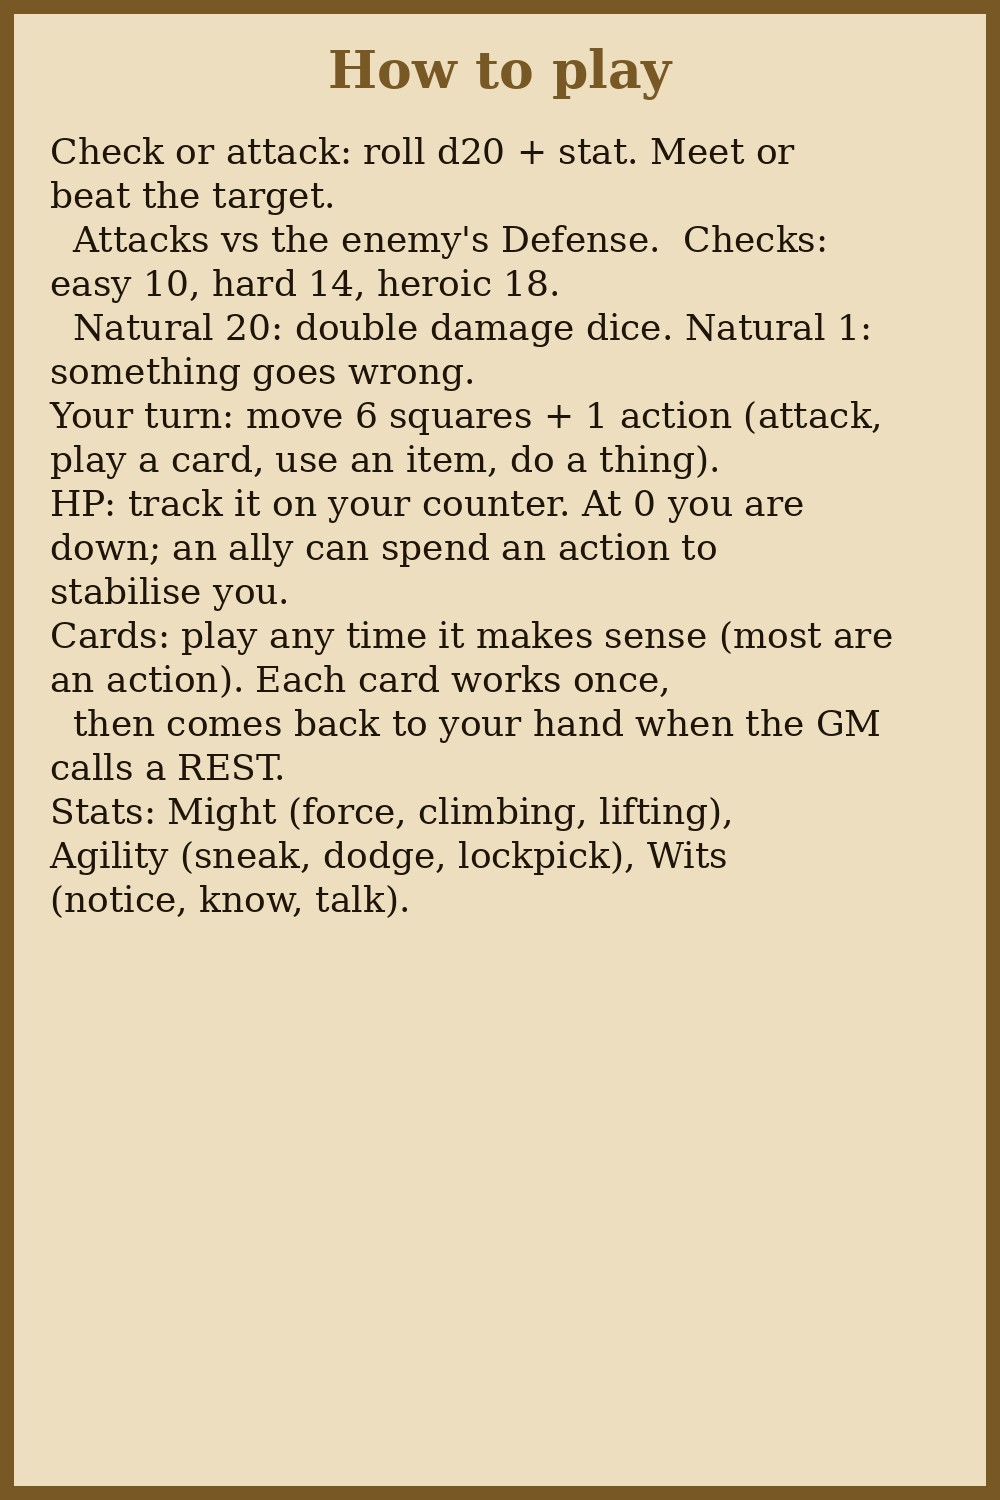
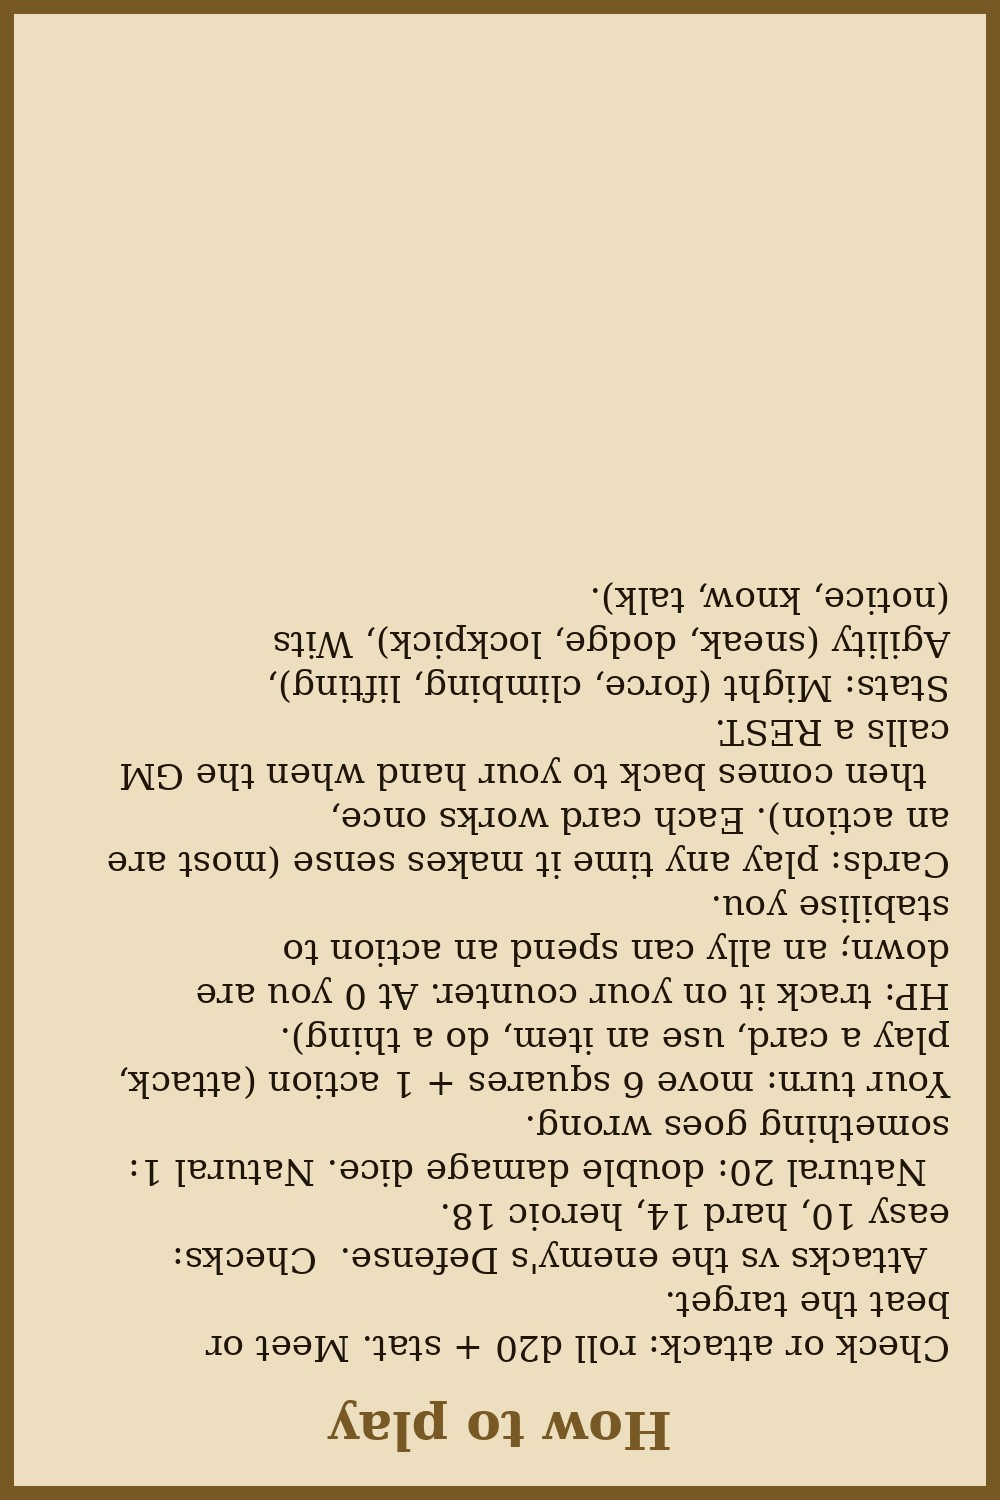
GM table with legs instead of the floating desk, single gold pouch, GM hand zone, screen text and item cards face the GM

diff --git a/build.py b/build.py
@@ -3,7 +3,7 @@ e.g. https://raw.githubusercontent.com/<user>/<repo>/<commit>/  -> writes art/ou
 import hashlib, json, subprocess, sys, textwrap
 from pathlib import Path
 from PIL import Image, ImageChops, ImageDraw, ImageFont
-from content import HEROES, NPCS, SCENES, RULES, BATTLE_MUSIC, ITEMS, POUCHES, SKIES
+from content import HEROES, NPCS, SCENES, RULES, BATTLE_MUSIC, ITEMS, SKIES
 
 ROOT = Path(__file__).parent
 CONTROLLER = "901d00"       # GUID of the hidden object that runs game.lua
@@ -13,7 +13,8 @@ TABLE_PX = (3400, 2000)     # custom rectangle table images are 17:10
 ART_FRAC = 0.64             # share of the table width the scene art covers; the wooden border holds the player kits
 # measured-at-load layout knobs, passed to game.lua (fractions of the table's measured width/depth)
 LAYOUT = {"cols": COLS, "rows": ROWS, "art_w": ART_FRAC, "surface": 1.0,
-          "kit_x": 0.41, "reveal": 7, "sheet_z": 0.30, "row_z": 0.12, "sheet_w": 0.16, "tile_unit": 2.0}
+          "kit_x": 0.41, "reveal": 7, "sheet_z": 0.30, "row_z": 0.12, "sheet_w": 0.16, "tile_unit": 2.0,
+          "gm_hand": 12.5}   # GM hand zone, squares past the table's east edge (beyond the GM table)
 FONT = "/usr/share/fonts/truetype/dejavu/DejaVuSerif{}.ttf"
 RGB = {"Red": (150, 35, 35), "Blue": (35, 70, 150), "Green": (35, 115, 55), "Purple": (100, 45, 135)}
 
@@ -167,12 +168,7 @@ def build_images():
     pw = art.width // 3
     for i, (title, body, fs) in enumerate(screen_panels()):
         art.crop((i * pw, 0, (i + 1) * pw, art.height)).resize((1000, 1500), Image.LANCZOS).save(OUT / f"screen_front_{i}.jpg", quality=88)
-        text_panel(title, body, fs=fs).save(OUT / f"screen_back_{i}.jpg", quality=90)
-    desk = Image.open(RAW / "table_wood.png").convert("RGB")
-    desk.crop((0, 0, desk.width, int(desk.width / 2.04))).resize((2040, 1000)).save(OUT / "gm_desk.jpg", quality=85)
-    console = Image.new("RGB", (1200, 800), (40, 28, 20))
-    ImageDraw.Draw(console).rectangle((0, 0, 1199, 799), outline=GOLD, width=16)
-    console.save(OUT / "gm_console.jpg", quality=90)
+        text_panel(title, body, fs=fs).rotate(180).save(OUT / f"screen_back_{i}.jpg", quality=90)   # tile backs render upside down
     for key in SKIES:
         sky(key).save(OUT / f"sky_{key}.jpg", quality=85)
     wood = Image.open(RAW / "table_wood.png").convert("RGB").resize(TABLE_PX)
@@ -305,18 +301,23 @@ def hero_objects(h, n, base):
 # GM desk: beyond the table's east edge (grid x past the table half-width), GM-only (tag "gm"); the screen
 # stands on the table's east border and everyone sees it. GM sits east looking west: cards ry 270, tiles ry 90.
 EDGE = COLS / ART_FRAC / 2          # table half-width in grid squares
-DESK_X = EDGE + 5.2                 # desk centre; it is 10 squares deep and 20.4 wide
+DESK_X = EDGE + 5.4                 # GM table centre; it is 10.4 squares deep and 20.8 wide
+
+
+TEXTURES = dict(l.split() for l in (ROOT / "props" / "textures.txt").read_text().splitlines()) if (ROOT / "props" / "textures.txt").exists() else {}
 
 
 def gm_objects(base):
     gm = dict(Tags=["gm"])
-    def model(name, **kw):
-        return obj("Custom_Model", tf(), Nickname=name.title(), CustomMesh={
-            "MeshURL": f"{base}props/{name}.obj", "DiffuseURL": f"{base}props/{name}.jpg", "NormalURL": "",
-            "ColliderURL": "", "Convex": True, "MaterialIndex": 2 if name == "coin" else 1, "TypeIndex": 0,
-            "CastShadows": True}, **kw)
-    out = [tile(f"{base}art/out/gm_desk.jpg", tf(ry=90.0), GUID=guid("gm", "desk"), Nickname="GM desk", Locked=True, **gm,
-                grid={"x": DESK_X, "z": 0, "k": "tile", "s": [20.4, 1, 20.4], "lift": -0.1})]
+    coin = obj("Custom_Model", tf(), Nickname="Gold coin", Hands=True, CustomMesh={
+        "MeshURL": f"{base}props/coin.obj", "DiffuseURL": f"{base}props/coin.jpg", "NormalURL": "", "ColliderURL": "",
+        "Convex": True, "MaterialIndex": 2, "TypeIndex": 0, "CastShadows": True})
+    # the GM's table: a real table everyone sees (only what lies on it is GM-only)
+    out = [obj("Custom_Model", tf(), GUID=guid("gm", "table"), Nickname="GM table", Locked=True, Tags=["gmtable"],
+               CustomMesh={"MeshURL": f"{base}props/gm_table.obj", "DiffuseURL": f"{base}props/{TEXTURES['gm_table']}",
+                           "NormalURL": "", "ColliderURL": "", "Convex": True, "MaterialIndex": 1, "TypeIndex": 0,
+                           "CastShadows": True},
+               grid={"x": DESK_X, "z": 0, "k": "model", "lift": 0})]
     # screen: three standing panels, art outside (players), quick reference inside (GM)
     for i, (z, x, ry) in enumerate(((-2.8, 0.75, 60.0), (0.0, 0.0, 90.0), (2.8, 0.75, 120.0))):
         t = tf(ry=ry)
@@ -325,42 +326,20 @@ def gm_objects(base):
                  Locked=True, Tags=["gmscreen"], grid={"x": EDGE - 0.8 + x, "z": z, "k": "tile", "s": [4.5, 1, 4.5], "ly": 2.3})
         p["CustomImage"]["ImageSecondaryURL"] = f"{base}art/out/screen_back_{i}.jpg"
         out.append(p)
-    out.append(tile(f"{base}art/out/gm_console.jpg", tf(ry=90.0), GUID=guid("gm", "console"), Nickname="GM controls",
-                    Locked=True, XmlUI=console_xml(), **gm, grid={"x": DESK_X + 3.4, "z": 0, "k": "tile", "s": [4, 1, 4]}))
     out.append(obj("Custom_PDF", tf(ry=90.0), GUID=guid("gm", "book"), Nickname="GM guide", **gm,
                    CustomPDF={"PDFUrl": f"{base}art/out/gm_guide.pdf", "PDFPassword": "", "PDFPage": 0, "PDFPageOffset": 0},
-                   grid={"x": DESK_X + 3.4, "z": -6, "k": "tile", "s": [3, 1, 3]}))
+                   grid={"x": DESK_X + 2.6, "z": -5.5, "k": "tile", "s": [3, 1, 3]}))
     deck = {"FaceURL": f"{base}art/out/items.jpg", "BackURL": f"{base}art/out/card_back.jpg", "NumWidth": 4,
             "NumHeight": 2, "BackIsHidden": True, "UniqueBack": False, "Type": 0}
-    spots = [(x, z) for x in (DESK_X - 3.4, DESK_X - 1.1) for z in (-8, -4, 0, 4, 8)]
+    spots = [(x, z) for x in (DESK_X - 3.2, DESK_X - 0.9) for z in (-8, -4, 0, 4, 8)]
     cards = [(i, name, text) for i, (name, text, _, k) in enumerate(ITEMS) for _ in range(k)]
     for n, ((i, name, text), (x, z)) in enumerate(zip(cards, spots)):
-        out.append(obj("Card", tf(ry=270.0), CardID=900 + i, Nickname=name, Description=text, CustomDeck={"9": deck},
-                       GUID=guid("gm", "item", n), **gm, grid={"x": x, "z": z, "k": "tile", "s": [1.4, 1, 1.4]}))
-    coin, ration = model("coin"), model("ration")
-    for n, (label, gold, food) in enumerate(POUCHES):
-        what = ", ".join(w for w in (f"{gold} gold" if gold else "", f"{food} rations" if food else "") if w)
-        out.append(obj("Bag", tf(), GUID=guid("gm", "pouch", n), Nickname=label, Description=what, **gm,
-                       ColorDiffuse={"r": 0.45, "g": 0.3, "b": 0.18}, ContainedObjects=[coin] * gold + [ration] * food,
-                       grid={"x": DESK_X + 1.2, "z": -8.5 + 3.4 * n, "k": "tile", "s": [1.6, 1.6, 1.6], "inner": 1.0}))
-    for n, (label, thing, z) in enumerate((("Gold coins (endless)", coin, 4.5), ("Rations (endless)", ration, 8.0))):
-        out.append(obj("Infinite_Bag", tf(), GUID=guid("gm", "supply", n), Nickname=label, **gm,
-                       ContainedObjects=[thing], grid={"x": DESK_X + 3.4, "z": z, "k": "tile", "s": [1.6, 1.6, 1.6], "inner": 1.0}))
+        out.append(obj("Card", tf(ry=90.0), CardID=900 + i, Nickname=name, Description=text, CustomDeck={"9": deck},
+                       GUID=guid("gm", "item", n), Hands=True, **gm, grid={"x": x, "z": z, "k": "tile", "s": [1.4, 1, 1.4]}))
+    out.append(obj("Infinite_Bag", tf(), GUID=guid("gm", "gold"), Nickname="Gold pouch", ColorDiffuse={"r": 0.45, "g": 0.3, "b": 0.18},
+                   Description="Endless gold. Hover and press a number: that many coins go to your hand.", **gm,
+                   ContainedObjects=[coin], grid={"x": DESK_X + 2.6, "z": 3, "k": "tile", "s": [1.8, 1.8, 1.8], "inner": 1.0}))
     return out
-
-
-def console_xml():
-    """The GM panel again, as buttons lying on the desk (object UI; also GM-only by visibility)."""
-    btn = 'fontSize="34" colors="#3a2a1a|#5a4028|#2a1a0a|#3a2a1a" textColor="#f0d9a0"'
-    on = f'onClick="{CONTROLLER}/'
-    scenes = "".join(f'<Button id="scene_{i + 1}" {on}onSceneButton" {btn}>{s["title"]}</Button>' for i, s in enumerate(SCENES))
-    tools = "".join(f'<Button {on}{f}" {btn}>{t}</Button>' for f, t in (("musicScene", "Scene music"), ("musicBattle", "Battle music"),
-                    ("musicStop", "Stop music"), ("revealAll", "Reveal all enemies"), ("rest", "REST")))
-    # ponytail: object-UI size/rotation are TTS conventions I can't test here; tweak position/scale if it sits oddly
-    return (f'<Panel visibility="Black|Host" position="0 0 -12" rotation="0 0 180" width="1150" height="760" '
-            f'scale="0.17 0.17 0.17"><HorizontalLayout spacing="20" padding="20 20 20 20">'
-            f'<VerticalLayout spacing="8">{scenes}</VerticalLayout><VerticalLayout spacing="8">{tools}</VerticalLayout>'
-            f'</HorizontalLayout></Panel>')
 
 
 def xml_ui(base):

diff --git a/test_lua.py b/test_lua.py
@@ -179,9 +179,12 @@ for o in g.getObjectsWithTag("kit").values():
 for i, a in enumerate(boxes):
     for b in boxes[i + 1:]:
         assert abs(a[1] - b[1]) >= a[3] + b[3] or abs(a[2] - b[2]) >= a[4] + b[4], ("kit overlap", a, b)
-assert set(to_py(g.hands).keys()) == {"Red", "Blue", "Green", "Purple"}
+assert set(to_py(g.hands).keys()) == {"Red", "Blue", "Green", "Purple", "Black"}
 for col, t in to_py(g.hands).items():
-    assert abs(t["position"][2]) > D / 2, (col, "hand zone should sit past the table edge")
+    if col == "Black":   # the GM's hand lies past the GM table at the east end
+        assert t["position"][0] > W / 2 + 10 * SQ, t
+    else:
+        assert abs(t["position"][2]) > D / 2, (col, "hand zone should sit past the table edge")
 
 scenes = to_py(c.DATA.scenes)
 for i, s in enumerate(scenes, 1):
@@ -226,11 +229,13 @@ assert count("hidden") == 0 and not any(o.invisible for o in giants)
 # GM desk: off the table's east edge and hidden from players; the screen on the table's east border, seen by all
 desk = list(g.getObjectsWithTag("gm").values())
 screen = list(g.getObjectsWithTag("gmscreen").values())
-assert len(desk) == len(c.DATA.gm) - 3 and all(o.invisible for o in desk), [o.data.Nickname for o in desk if not o.invisible]
+gmtable = list(g.getObjectsWithTag("gmtable").values())
+assert len(gmtable) == 1 and not gmtable[0].invisible and gmtable[0].data.Transform.posY == TOP   # top level with the table
+assert len(desk) == len(c.DATA.gm) - 4 and all(o.invisible for o in desk), [o.data.Nickname for o in desk if not o.invisible]
 assert all(o.data.Transform.posX > W / 2 for o in desk), [(o.data.Nickname, o.data.Transform.posX) for o in desk]
 assert len(screen) == 3 and not any(o.invisible for o in screen)
 assert all(W / 2 - 3 * SQ < o.data.Transform.posX < W / 2 + SQ and o.data.Transform.posY > TOP for o in screen)
-pouch = next(o for o in desk if o.data.Name == "Bag")
+pouch = next(o for o in desk if o.data.Name == "Infinite_Bag")
 assert pouch.data.ContainedObjects[1].Transform.scaleX == SQ          # coins inside sized to the grid
 card = next(o for o in desk if o.data.Name == "Card")
 card.pos = lua.table_from([0, TOP, 0])

diff --git a/forge.py b/forge.py
@@ -931,6 +931,19 @@ def ration():
     return a.objs
 
 
+def gm_table():
+    """The GM's own table beside the main one: plank top (its surface is the model origin, so it sits level with the
+    main table), an apron and four long legs."""
+    a = Asset(27)
+    w, d, t = 10.4, 20.8, 0.35
+    a.box((w, d, t), (0, 0, -t / 2), "planks")
+    a.box((w - 0.8, d - 0.8, 0.6), (0, 0, -t - 0.3), "timber")
+    for x in (-1, 1):
+        for y in (-1, 1):
+            a.box((0.7, 0.7, 9), (x * (w / 2 - 0.7), y * (d / 2 - 0.7), -t - 4.5), "timber")
+    return a.objs
+
+
 ASSETS = {
     "house_a": lambda: house(1, 3.0, 2.2, 2, "timber"),
     "house_b": lambda: house(2, 2.6, 2.0, 2, "mixed", roof="shingle", plaster="plaster_white", front=True),
@@ -953,7 +966,7 @@ ASSETS = {
     "kerb": kerb, "house_e": lambda: house(13, 2.2, 2.6, 3, "timber", front=True, roof="shingle", plaster="plaster_rose"),
     "house_f": lambda: house(14, 3.2, 2.2, 1, "stone", roof="thatch", annex=1, flowers=0.6),
     "throne_dais": throne_dais, "candelabra": candelabra, "hoard": hoard, "hoard_b": lambda: hoard(29),
-    "wall_sconce": wall_sconce, "coin": coin, "ration": ration,
+    "wall_sconce": wall_sconce, "coin": coin, "ration": ration, "gm_table": gm_table,
 }
 
 if __name__ == "__main__":
@@ -967,6 +980,6 @@ if __name__ == "__main__":
         _mats.clear()
         for old in OUT.glob(f"{name}.*"):
             old.unlink()
-        big = name.startswith(("house", "tavern", "ruin"))   # buildings: 2k atlas keeps their texel density near the props'
+        big = name.startswith(("house", "tavern", "ruin", "gm_table"))   # buildings: 2k atlas keeps their texel density near the props'
         textures[name] = bake_objects(name, ASSETS[name](), OUT, size=2048 if big else 1024)
         tex_list.write_text("".join(f"{n} {t}\n" for n, t in sorted(textures.items())))

diff --git a/content.py b/content.py
@@ -455,8 +455,6 @@ ITEMS = [
     ("Moonstaff Shard", "Once: cast Fireball (3x3 area, 3d6 fire, Agility DC 14 for half).",
      "a broken shard of a silver staff with a glowing crescent moon crystal, sparks of light", 1),
 ]
-# pre-filled pouches: (label, gold coins, rations)
-POUCHES = [("Starting purse", 10, 3)] * 4 + [("Guard post chest (passage A)", 15, 0), ("Rats' nest purse (passage C)", 8, 0)]
 # per scene: 360 backdrop around the table (prompt) and the mood light (colour, brightness x the default)
 SKY_STYLE = ("An equirectangular 360 degree panorama, seen from eye level. A painterly dark fantasy illustration "
              "in muted earthy colours with soft atmospheric light.")
